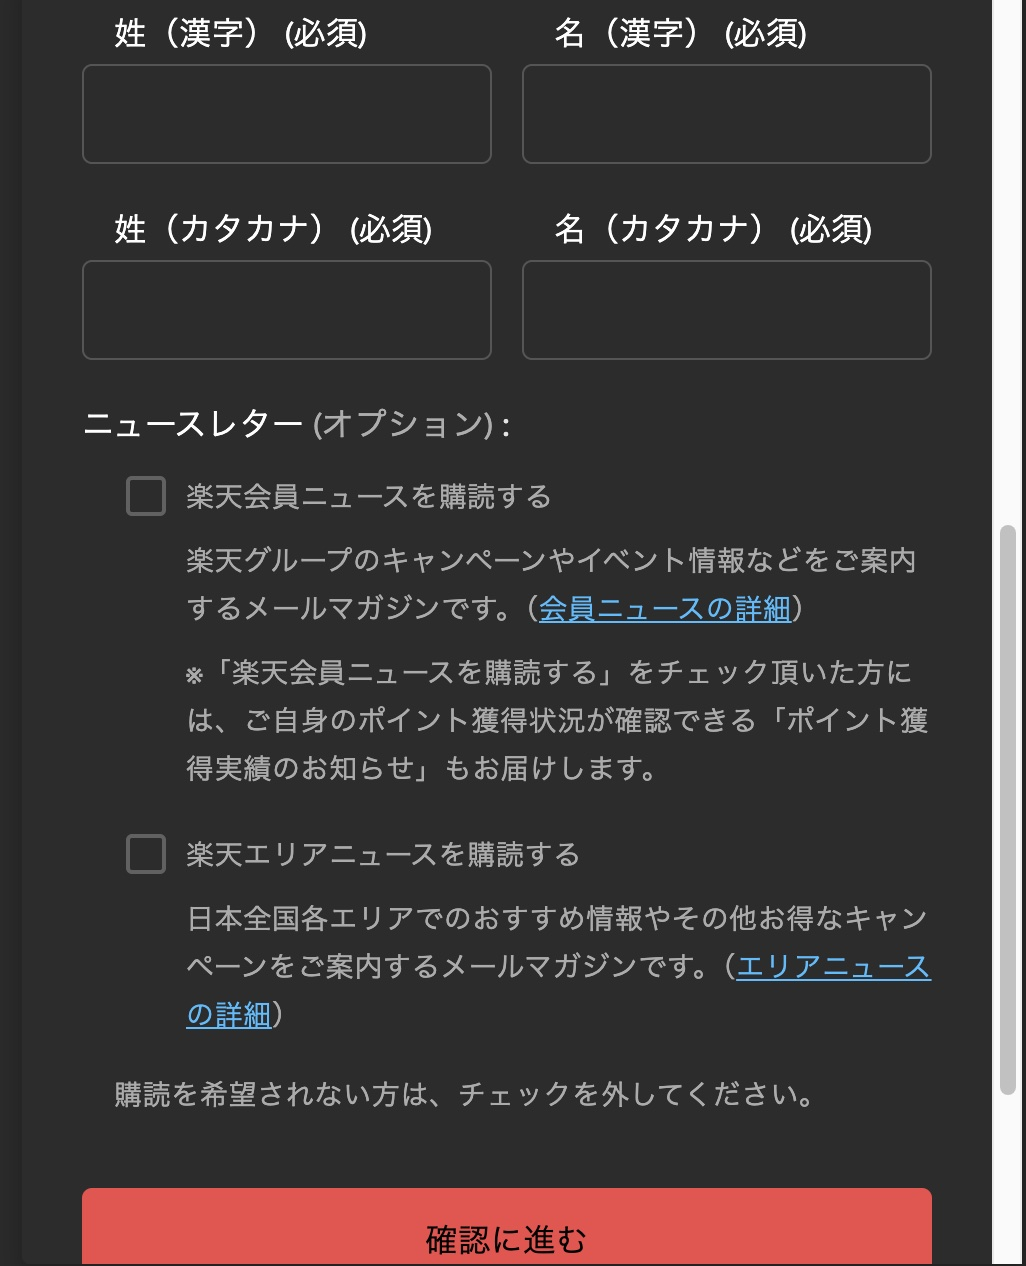
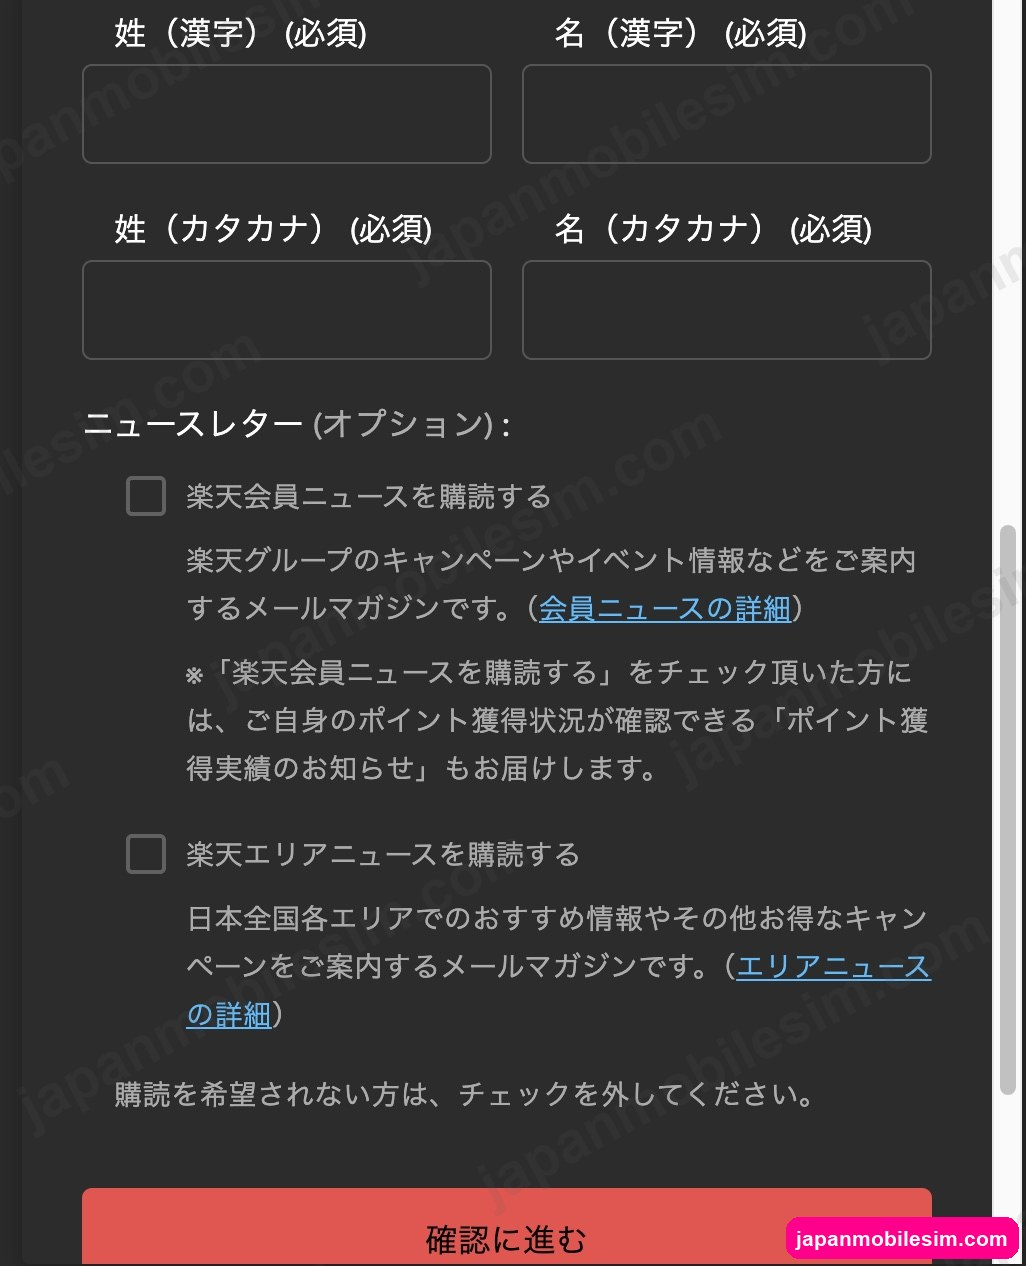
feat: watermark guide screenshots; stop publishing source screenshots
- all 21 guide images get a faint diagonal japanmobilesim.com tile plus a
  corner label (text stays readable)
- guide_screenshots/ (sources and clean originals) is now gitignored and
  removed from the published site; files kept locally

Claude-Session: https://claude.ai/code/session_013JtnQ1VRRsQYV34L3mDWP9

Changed region(s): [[0.7485, 0.955, 0.9981, 1.0]]

diff --git a/docs/knowledge/guide-pages.md b/docs/knowledge/guide-pages.md
@@ -41,7 +41,8 @@
 - **Audience**: the general public applying via the site owner's employee referral link (r10.to/hUMVON) — NOT employees
 - **Structure** (rewritten 2026-11-17): 14,000/13,000 cards → conditions → 8 steps (login, password, member info,
   plan, phone number/MNP, identity check, delivery/payment/options, activation + Rakuten Link call) → FAQ → CTA
-- **Screenshots**: `assets/guides/referee-01..07*.webp` (JA UI, personal data masked); sources in `guide_screenshots/referee-flow/`
+- **Screenshots**: `assets/guides/referee-*.webp` (personal data masked, watermarked). Sources + clean originals live in
+  `guide_screenshots/` which is gitignored (local only, not published) since 2026-11-17. Re-run the watermark when replacing images.
 - **Generator**: body built from per-language string tables (zh-cn = OpenCC tw2sp of zh-tw + vocab fixes, Japanese UI labels protected)
 
 ### Known Inaccuracies (not yet fixed)
